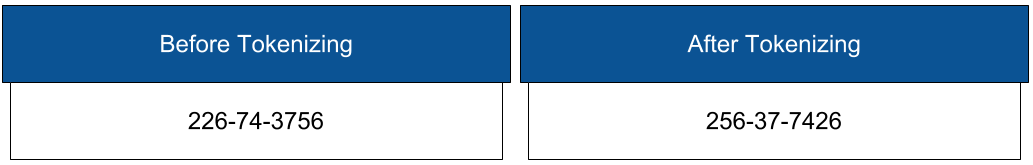
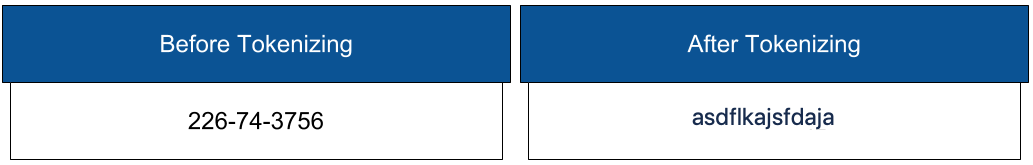
DOC-485 Update Tokenization documentation
Reviewed at: http://reviews.delphix.com/r/56069/

Changed region(s): [[0.6505, 0.6364, 0.8364, 0.7879]]

diff --git a/docs/index.md b/docs/index.md
@@ -1,4 +1,4 @@
-# Introduction to Delphix Masking 
+# Introduction to Delphix Masking
 
 ## Challenge
 
@@ -32,9 +32,9 @@ downstream environments. Consistent masking of data while maintaining
 referential integrity across heterogeneous data sources enables Delphix
 masking to provide superior coverage compared to other solutions—all
 without the need for programming expertise. Moreover, the Delphix
-Dynamic Data Platform seamlessly integrates masking with data delivery 
-capabilities, ensuring the security of sensitive data before it is made 
-available for development and testing, or sent to an offsite data center 
+Dynamic Data Platform seamlessly integrates masking with data delivery
+capabilities, ensuring the security of sensitive data before it is made
+available for development and testing, or sent to an offsite data center
 or the public cloud.
 
 Delphix Masking is a multi-user, browser-based web application that
@@ -46,7 +46,7 @@ successfully protect sensitive data across the enterprise:
 
   - **End-to-End Masking** — The Delphix platform automatically detects
     confidential information, irreversibly masks data values, then
-    generates reports and email notifications to confirm that all sensitive 
+    generates reports and email notifications to confirm that all sensitive
     data has been masked.
 
   - **Realistic Data** — Data masked with the Delphix platform is
@@ -69,14 +69,14 @@ successfully protect sensitive data across the enterprise:
     between elements so that data is masked the same way across
     different tables and databases.
 
-  - **Algorithms/Frameworks** — Seven algorithm frameworks allow users 
+  - **Algorithms/Frameworks** — Seven algorithm frameworks allow users
     to create and configure algorithms to match specific security policies.
     Over twenty five out-of-the-box, preconfigured algorithms help businesses
-    mask everything from names and addresses to credit card numbers and text 
-    fields. Moreover, the Delphix platform includes prepackaged profiling 
-    sets for healthcare and financial information, as well as the ability 
-    to perform tokenization: a process that can be used to obfuscate data 
-    sent for processing, then reversed when the processed data set is 
+    mask everything from names and addresses to credit card numbers and text
+    fields. Moreover, the Delphix platform includes prepackaged profiling
+    sets for healthcare and financial information, as well as the ability
+    to perform tokenization: a process that can be used to obfuscate data
+    sent for processing, then reversed when the processed data set is
     returned.
 
   - **Ease of Use** — With a single solution, Delphix customers can mask
@@ -92,14 +92,14 @@ successfully protect sensitive data across the enterprise:
     the time-consuming work associated with a data masking project is
     reduced significantly.
 
-# High Level Platform Architecture 
+# High Level Platform Architecture
 
 The Delphix Dynamic Data Platform is made up of 4 main services each of
 which play a very important part in delivering fresh secure data to
 anybody that needs it. These include:
 
   - **Virtualize —** Delphix compresses the data that it gathers, often to
-    one-third or more of the original size. From that compressed data 
+    one-third or more of the original size. From that compressed data
     footprint, Delphix virtualizes the data and allows operators to create
     lightweight, virtual data copies. Virtual copies are fully
     readable/writable and independent. They can be spun up or torn down
@@ -133,7 +133,7 @@ anybody that needs it. These include:
 
 ![](./media/image1.png)
 
-# How Delphix Identifies Sensitive Data 
+# How Delphix Identifies Sensitive Data
 
 Our platform helps you quickly identify your organization’s sensitive data. This sensitive data identification is done using two different methods, column level profiling and data level profiling.
 
@@ -182,9 +182,6 @@ to match specific security policies.
 **Tokenization**
 
 Tokenization uses reversible algorithms so that the data can be returned
-to its original state. Tokenization is a form of encryption where the
-actual data – such as names and addresses – are converted into tokens
-that have similar properties to the original data (text, length, etc.)
-but no longer convey any meaning.
+to its original state. Tokenization is a form of encryption where the actual data – such as names and addresses – are converted into tokens that do not convey any meaning (with regards to appearance and formatting).
 
 ![](./media/image5.png)
